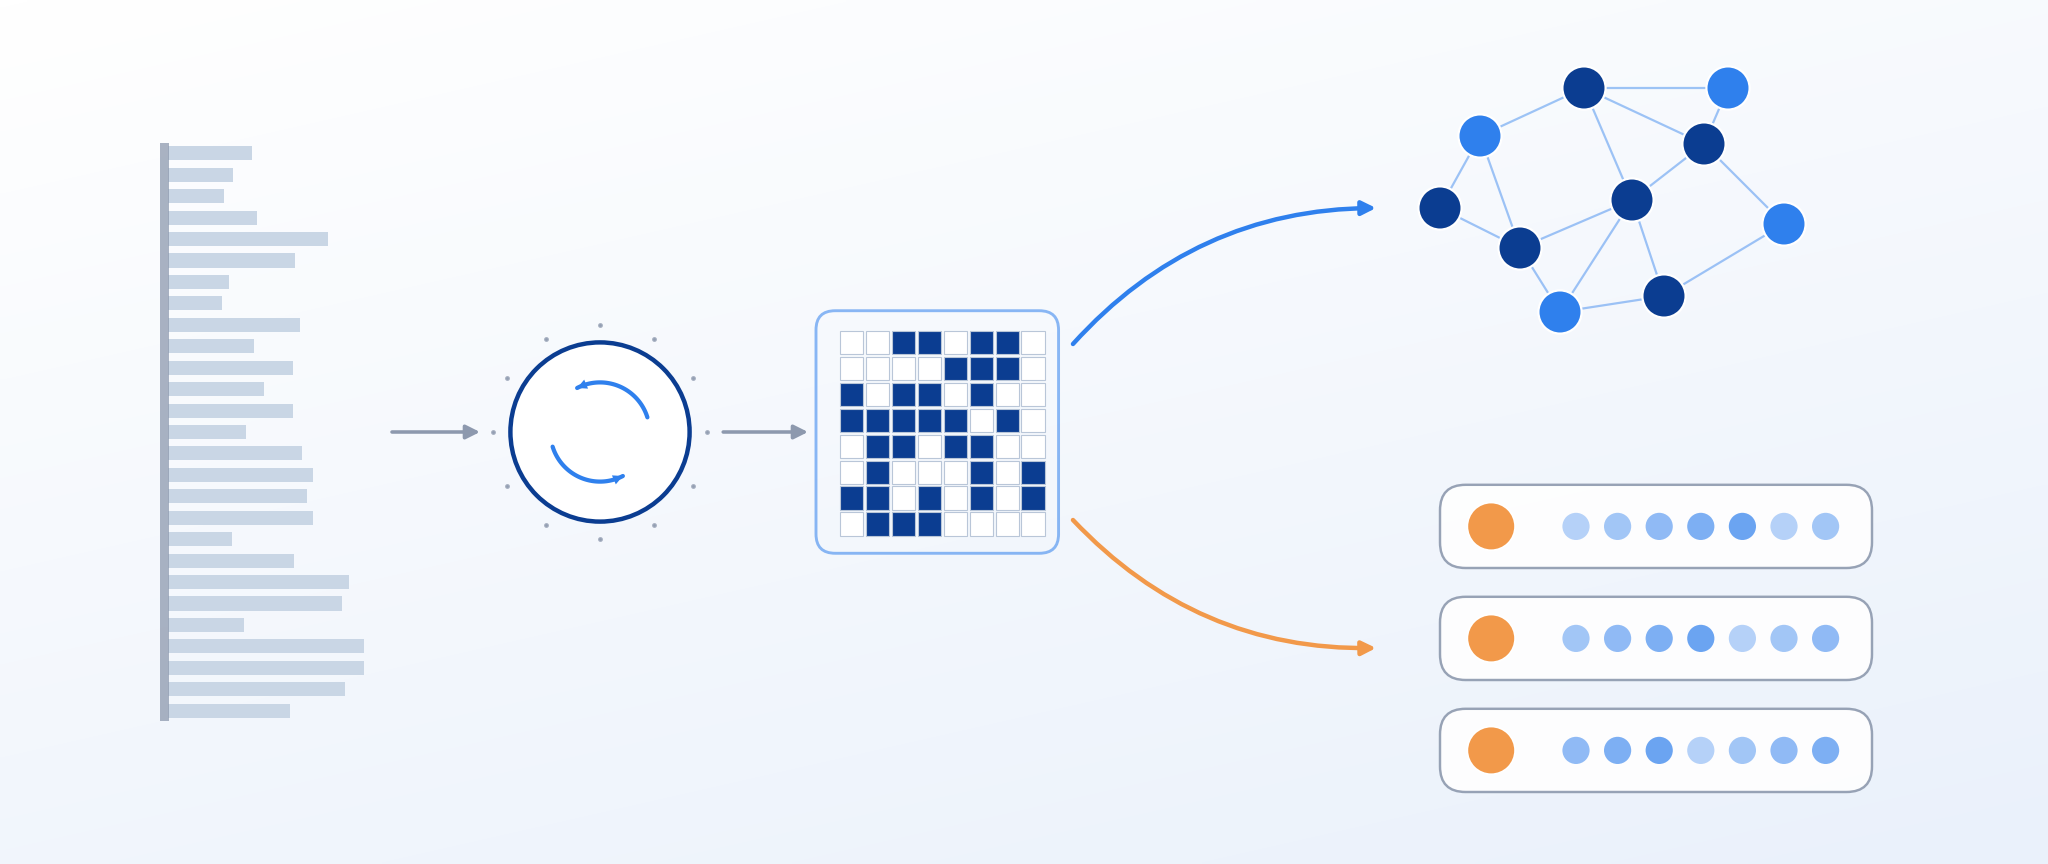
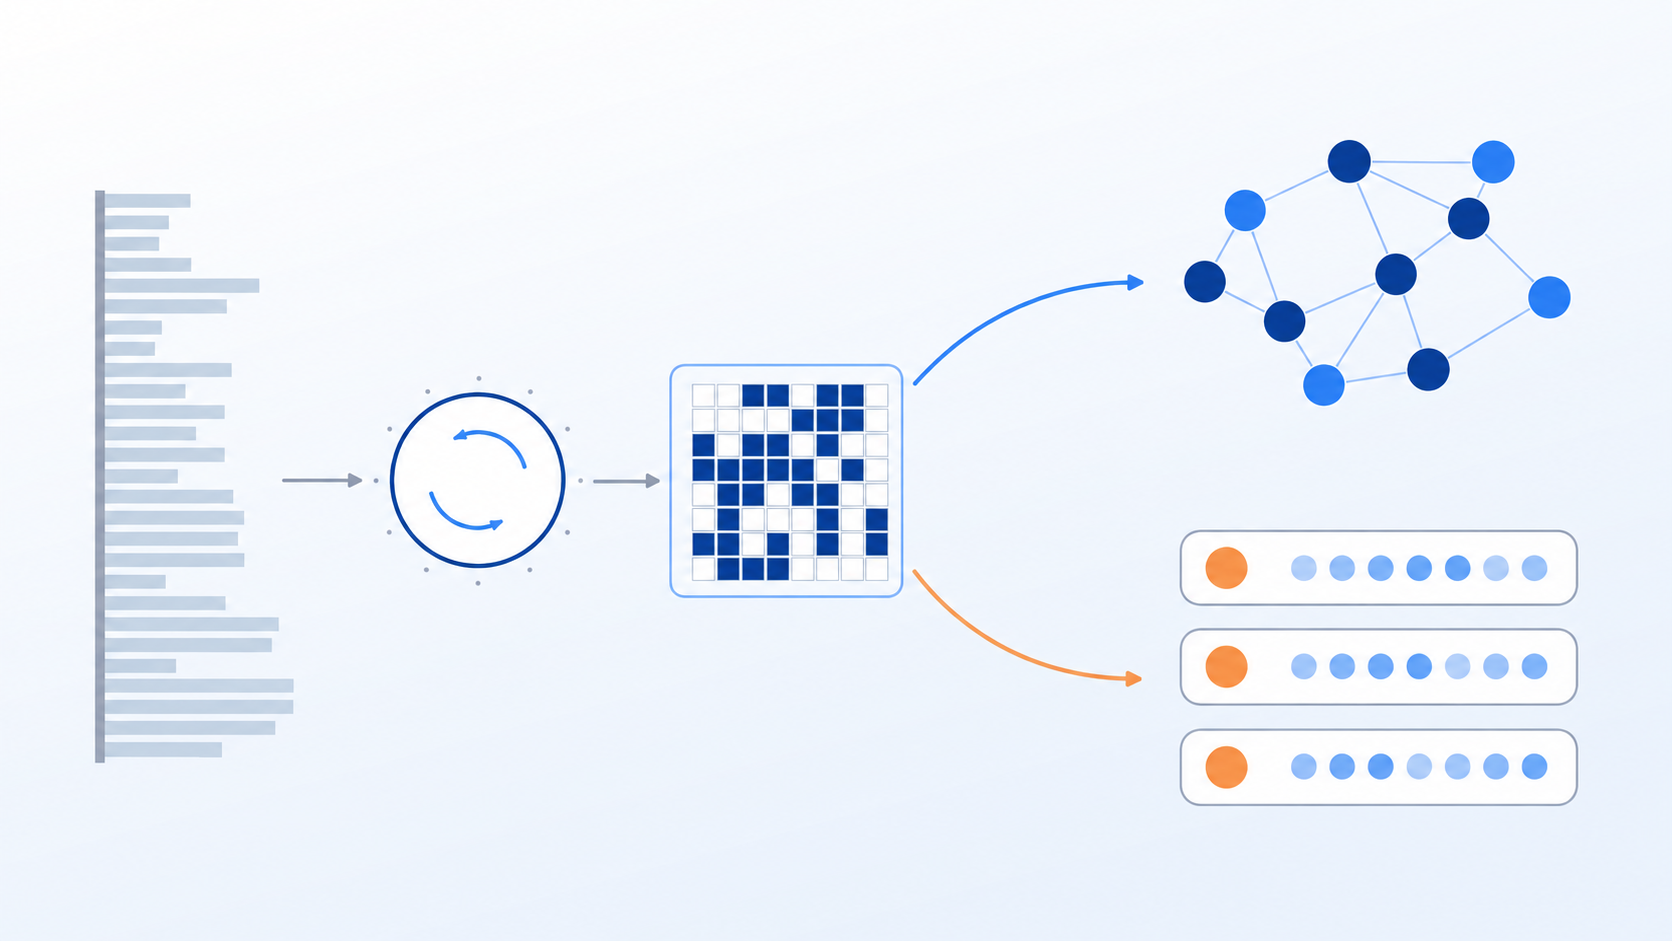
fix: standardize blog cover presentation (#69)

diff --git a/app/global.css b/app/global.css
@@ -6218,7 +6218,9 @@ body:has(.zvec-docs-overview) #nd-sidebar > div:nth-child(2) {
 
 
 .zvec-blog-featured-media {
-  min-height: 330px;
+  position: relative;
+  min-height: 0;
+  aspect-ratio: 16 / 9;
   overflow: hidden;
   border-right: 1px solid var(--zvec-border);
   background: var(--zvec-muted-surface);
@@ -6226,9 +6228,12 @@ body:has(.zvec-docs-overview) #nd-sidebar > div:nth-child(2) {
 
 
 .zvec-blog-featured-media img {
+  position: absolute;
+  inset: 0;
   width: 100%;
   height: 100%;
-  object-fit: contain;
+  object-fit: cover;
+  object-position: center;
   transition: transform 240ms ease;
 }
 
@@ -6243,14 +6248,14 @@ body:has(.zvec-docs-overview) #nd-sidebar > div:nth-child(2) {
   min-width: 0;
   flex-direction: column;
   justify-content: center;
-  padding: 34px;
+  padding: 28px;
 }
 
 
 .zvec-blog-featured-body h2 {
   margin-top: 18px;
   color: var(--zvec-ink);
-  font-size: clamp(1.75rem, 3vw, 2.65rem);
+  font-size: clamp(1.75rem, 2.7vw, 2.4rem);
   font-weight: 680;
   letter-spacing: -0.045em;
   line-height: 1.06;
@@ -6258,10 +6263,14 @@ body:has(.zvec-docs-overview) #nd-sidebar > div:nth-child(2) {
 
 
 .zvec-blog-featured-body > p {
+  display: -webkit-box;
+  overflow: hidden;
   margin-top: 14px;
   color: var(--zvec-muted);
   font-size: 0.9rem;
   line-height: 1.6;
+  -webkit-box-orient: vertical;
+  -webkit-line-clamp: 3;
 }
 
 
@@ -6331,9 +6340,12 @@ body:has(.zvec-docs-overview) #nd-sidebar > div:nth-child(2) {
 
 
 .zvec-blog-card-media img {
+  position: absolute;
+  inset: 0;
   width: 100%;
   height: 100%;
-  object-fit: contain;
+  object-fit: cover;
+  object-position: center;
   transition: transform 240ms ease;
 }
 
@@ -6807,7 +6819,7 @@ a.zvec-map-tile:is(:hover, :focus-visible),
 }
 
 
-@media (max-width: 780px) {
+@media (max-width: 1199px) {
   .zvec-blog-featured-card {
     grid-template-columns: 1fr;
   }
@@ -6822,6 +6834,10 @@ a.zvec-map-tile:is(:hover, :focus-visible),
   .zvec-blog-featured-body {
     padding: 24px;
   }
+}
+
+
+@media (max-width: 780px) {
 
   .zvec-grep-diagram {
     gap: 18px;

diff --git a/app/[lang]/(home)/blog/page.tsx b/app/[lang]/(home)/blog/page.tsx
@@ -100,6 +100,7 @@ function BlogCover({
         src={image}
         alt={title}
         loading={loading}
+        decoding="async"
       />
       {imageDark && (
         <img
@@ -107,6 +108,7 @@ function BlogCover({
           src={imageDark}
           alt=""
           loading={loading}
+          decoding="async"
           aria-hidden="true"
         />
       )}

diff --git a/CONTRIBUTING.md b/CONTRIBUTING.md
@@ -1,0 +1,35 @@
+# Blog contribution guide
+
+Every post must provide a repository-hosted cover image. The blog index uses one predictable presentation rule for every cover, so article-specific fit overrides are not supported.
+
+## Cover requirements
+
+- Store cover assets under `public/img/blog/<post-slug>/` and reference them with `/img/blog/<post-slug>/<file>`.
+- Use a 16:9 landscape canvas. Recommended export size: `1600x900` or `1920x1080`; minimum accepted size: `800x450`.
+- Keep titles, logos, diagrams, and other essential content inside a 7% safe margin. Covers are displayed with `object-fit: cover` and may lose a very small edge area because of responsive rounding.
+- Prefer providing both `image` and `imageDark`, designed for light and dark page backgrounds respectively. Both covers must use the same dimensions, composition, and safe-area rules.
+- Do not use remote image URLs or add per-post CSS/object-fit exceptions.
+
+## Frontmatter
+
+```yaml
+---
+title: "Post title"
+date: "YYYY-MM-DD"
+image: /img/blog/YYYY-MM-DD-post-slug/header.webp
+imageDark: /img/blog/YYYY-MM-DD-post-slug/header-dark.webp # optional
+description: "Short summary"
+---
+```
+
+## Before opening a PR
+
+Run:
+
+```bash
+npm run blog:covers:check
+npm run types:check
+npm run build
+```
+
+`npm run build` also runs the cover check. A blog PR with a missing, remote, undersized, or incorrectly proportioned cover will fail CI before deployment.
